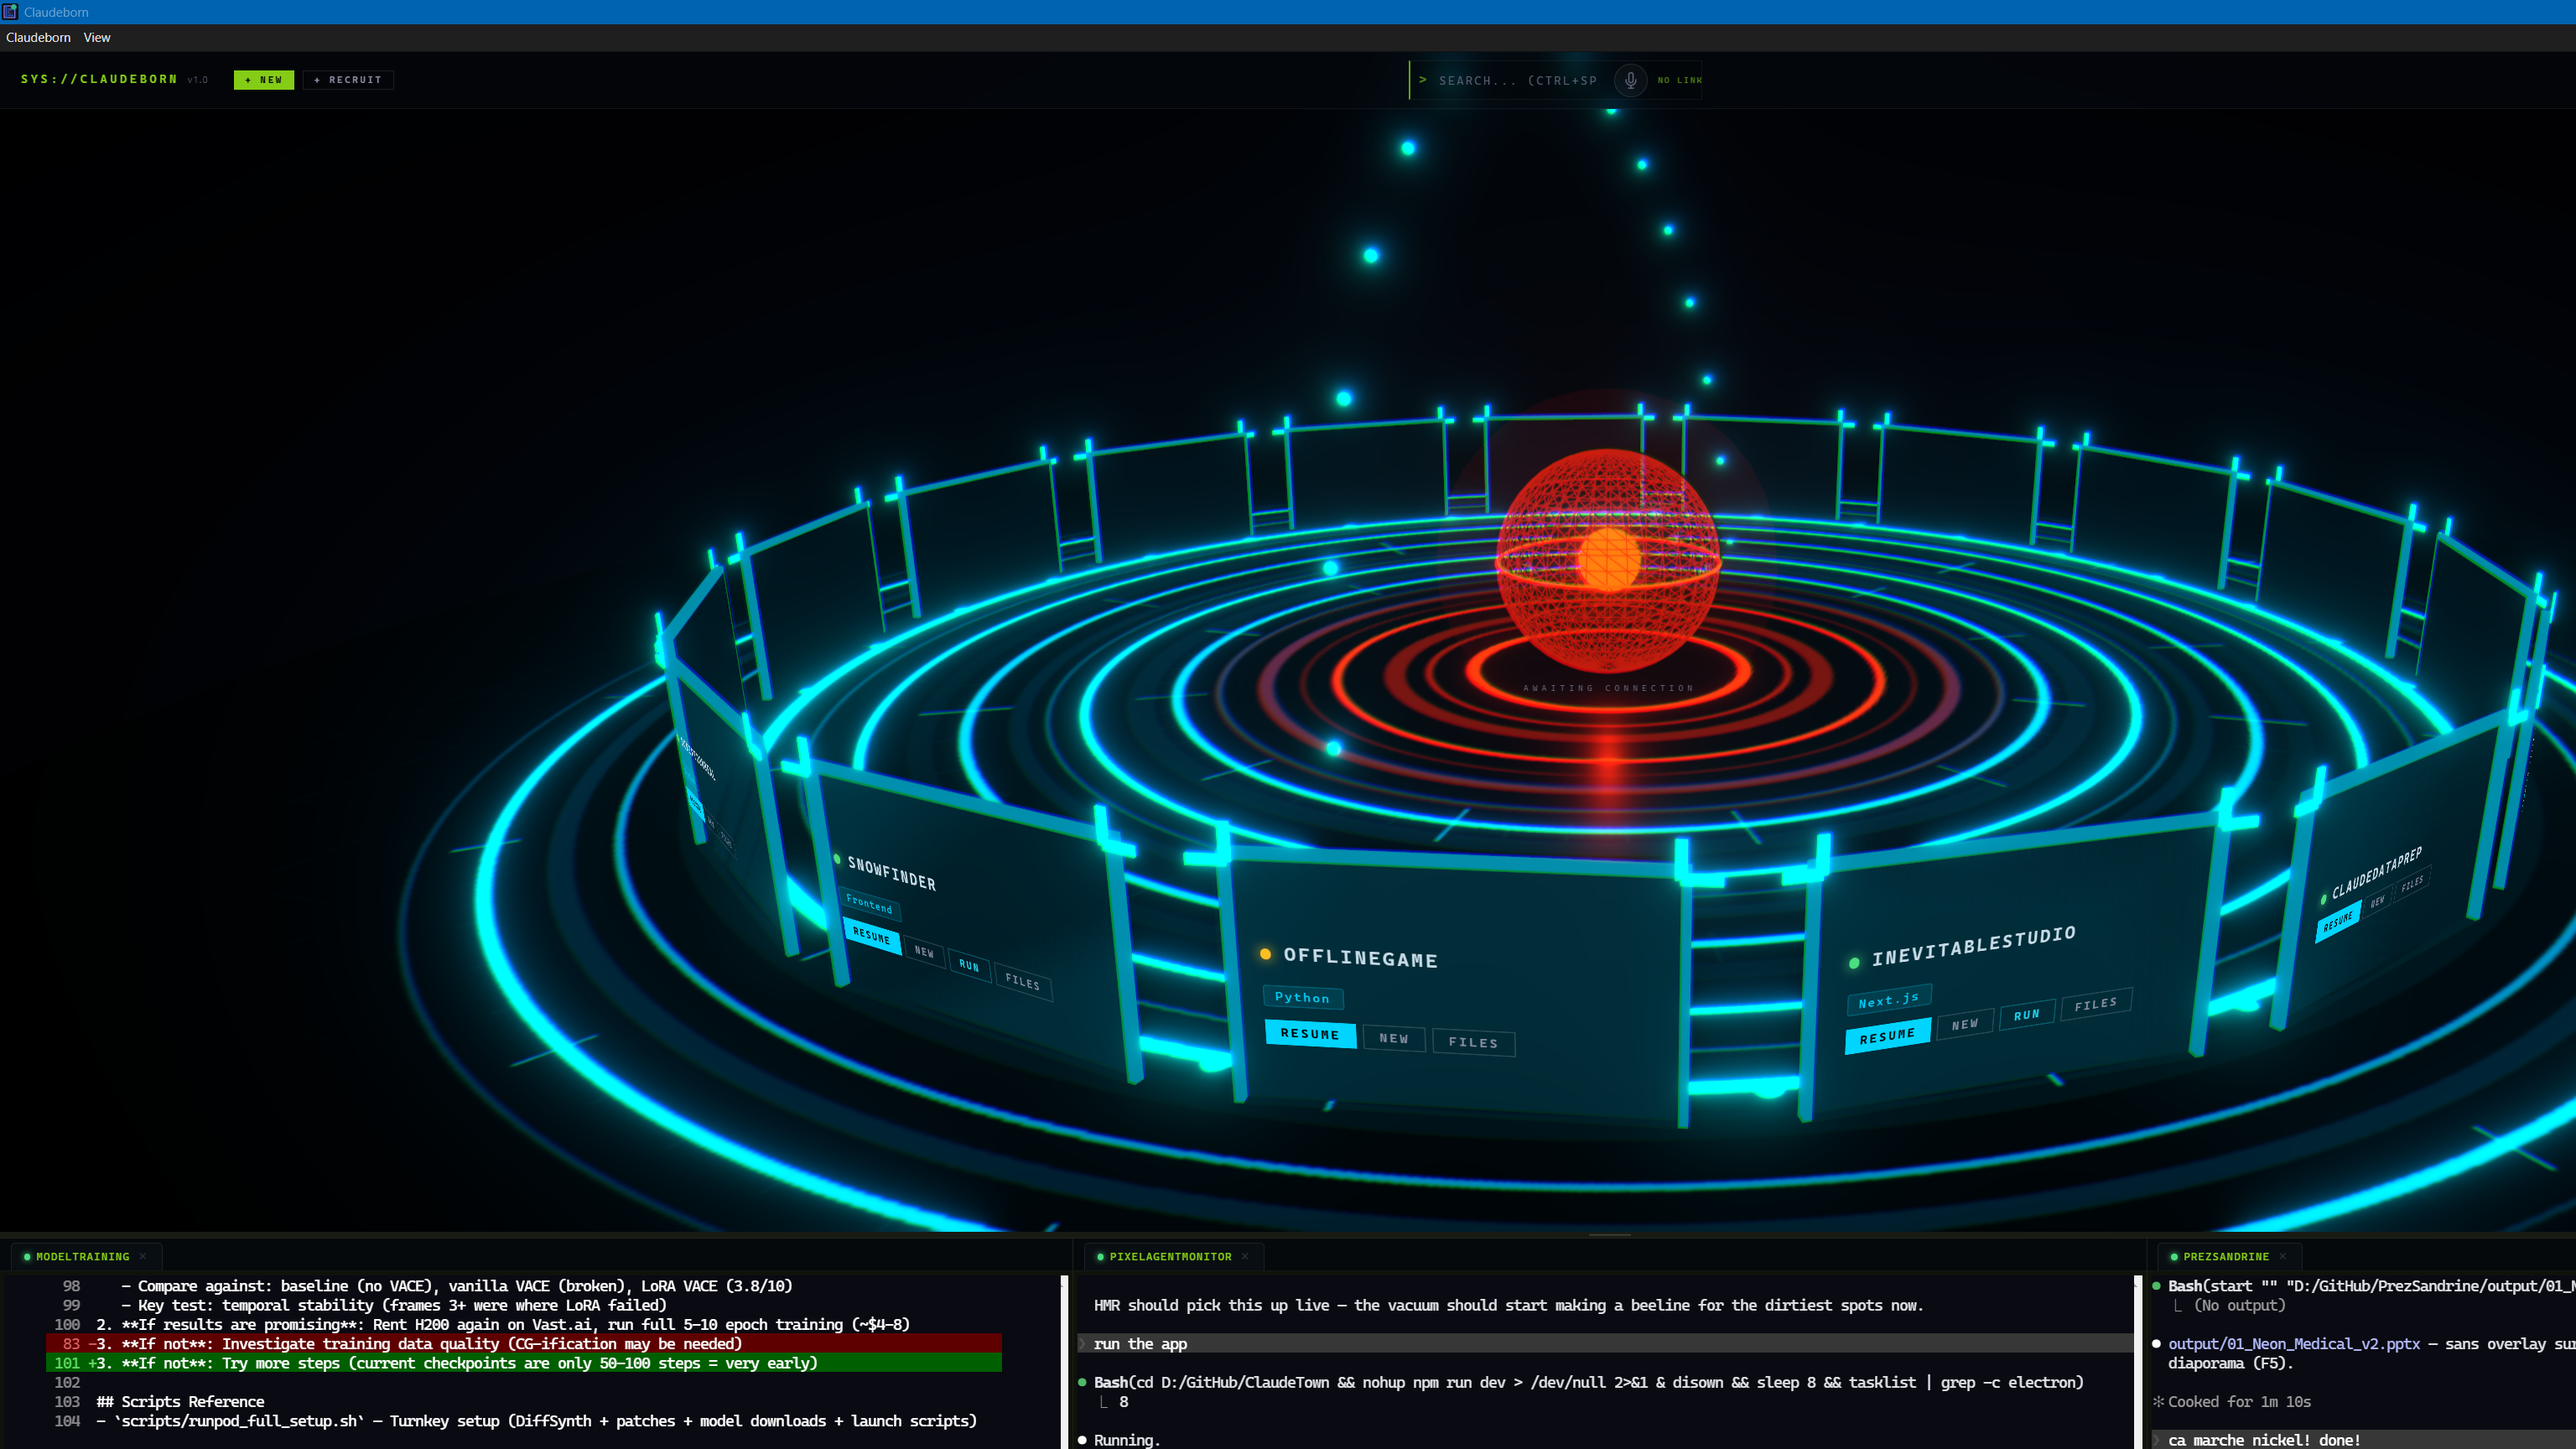
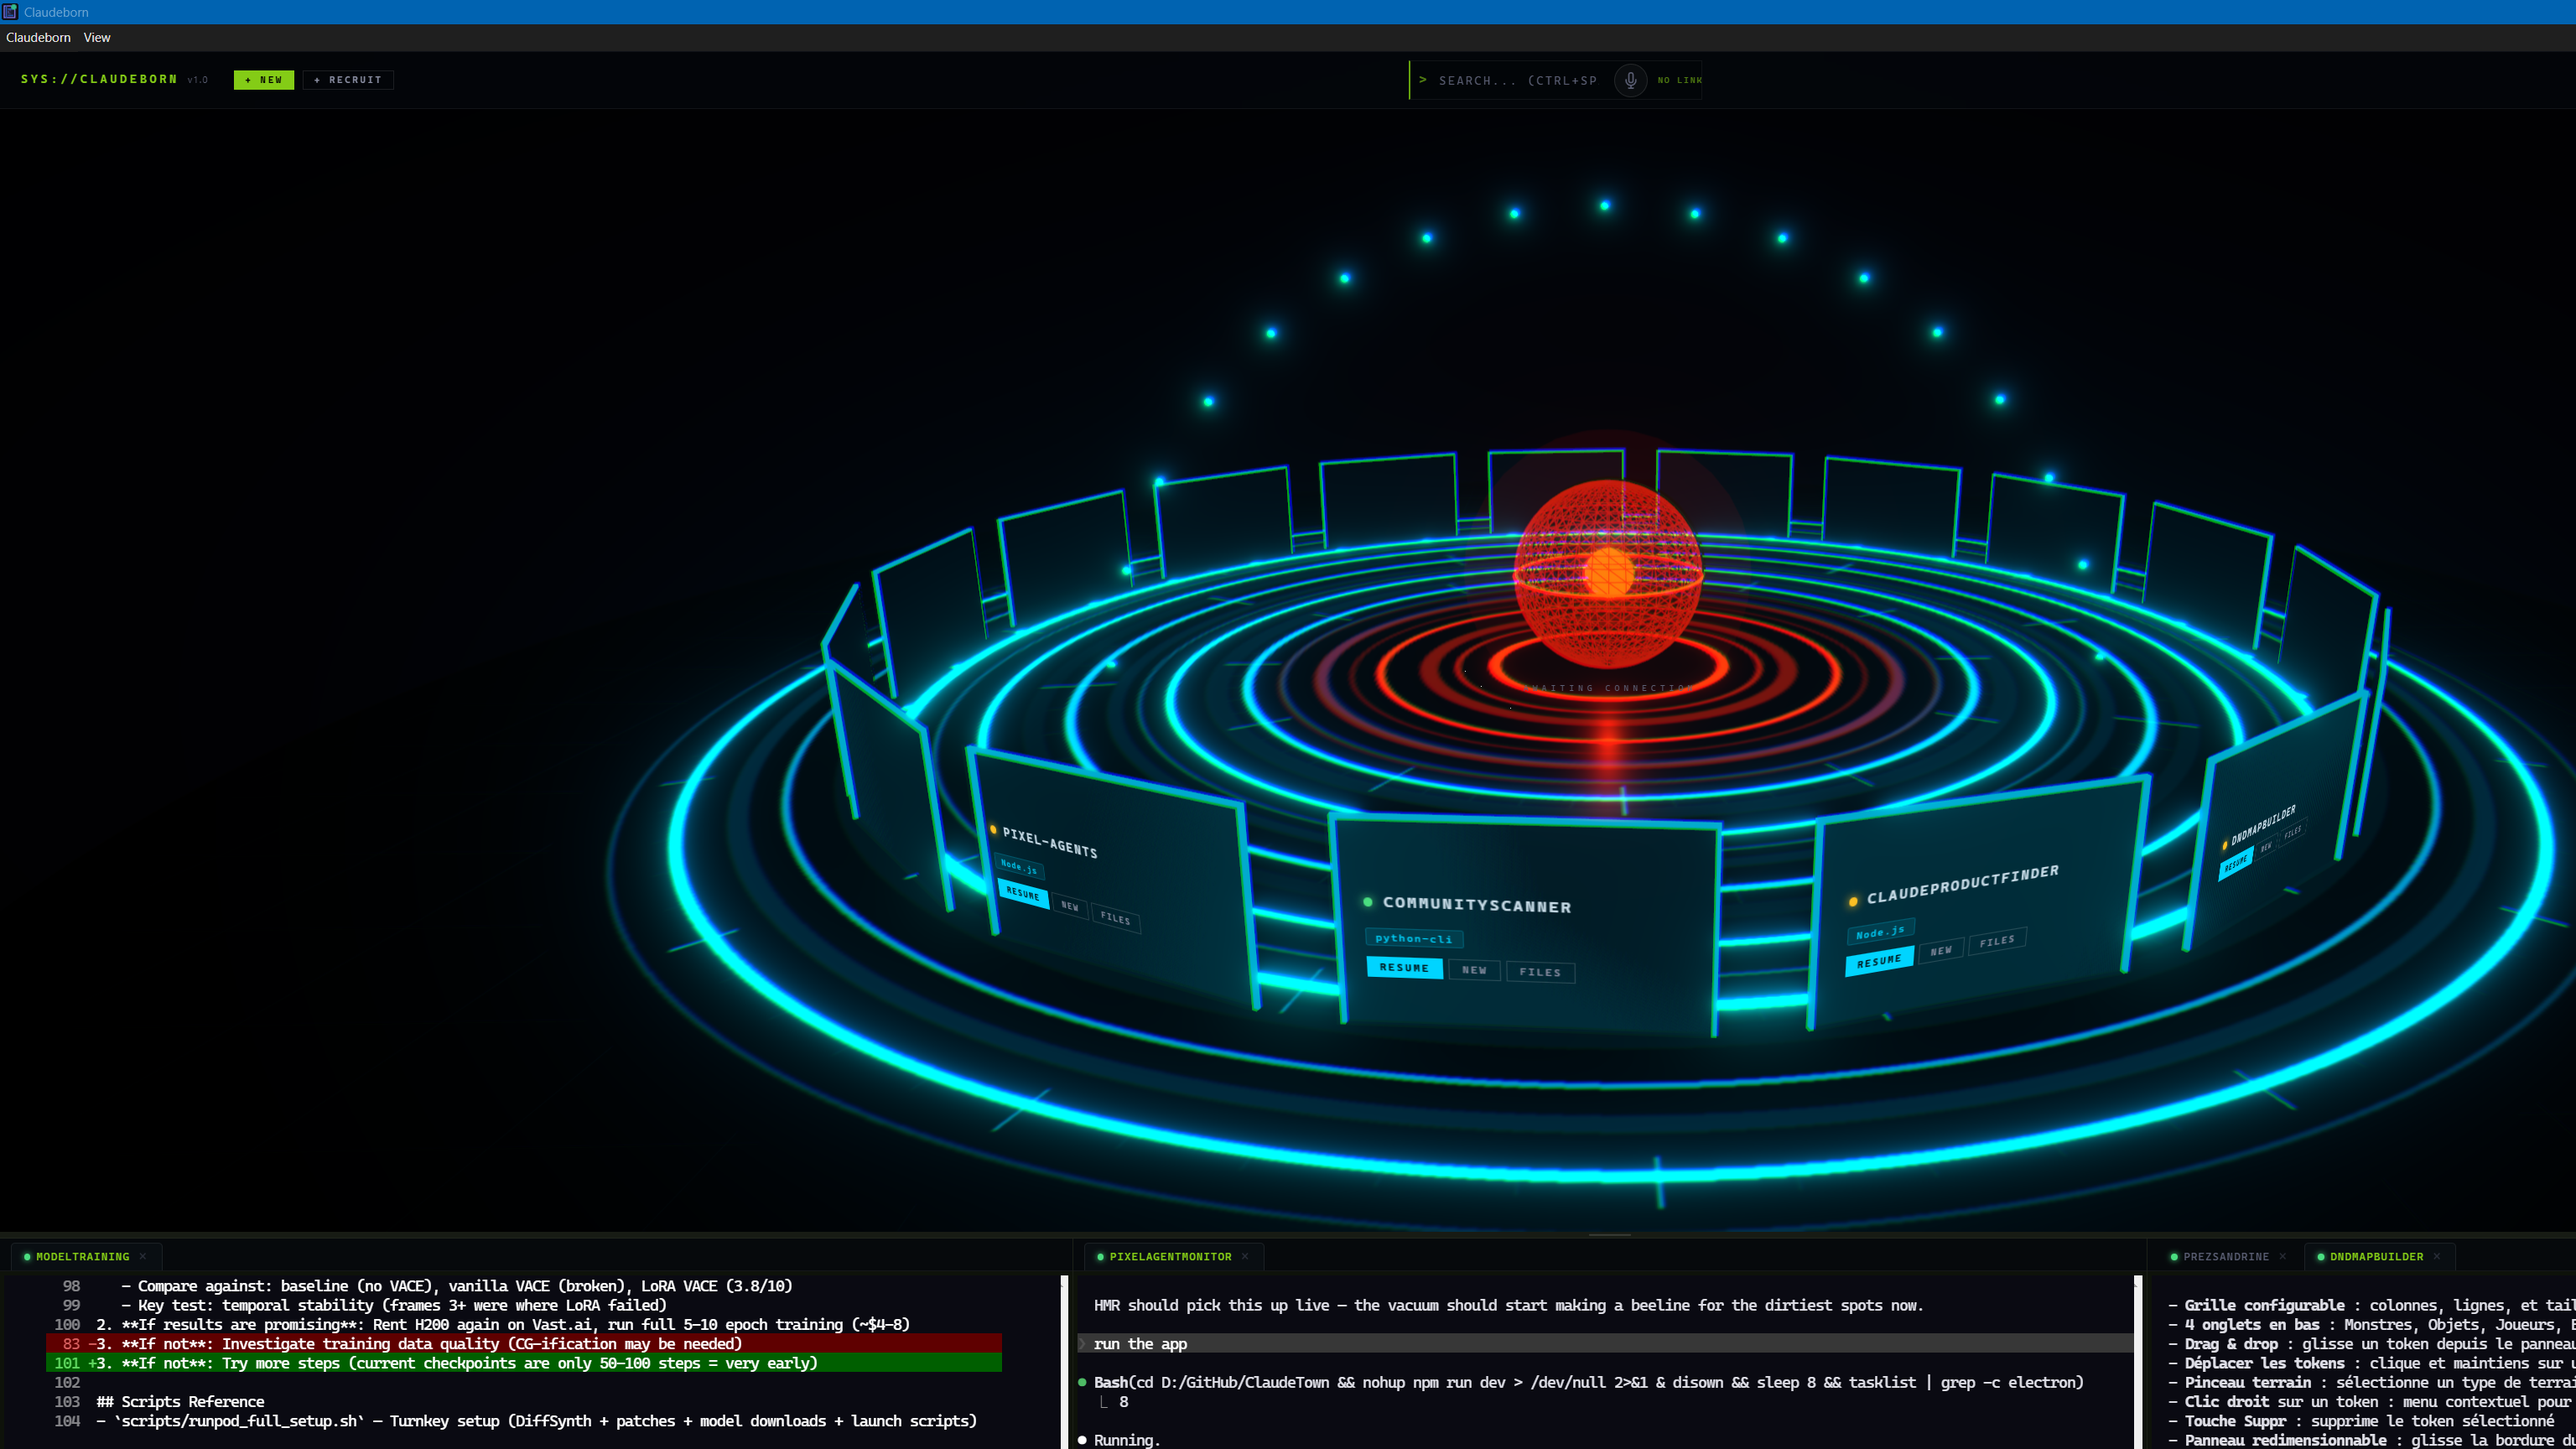
fix: screen flashing — use opacity fade instead of display toggle
- Replaced setFacingCamera state (caused re-renders every frame) with DOM ref
- Html visibility controlled via opacity + CSS transition (0.3s fade)
- No more React re-mounts causing flash
- Increased Html z-offset to 0.06 to prevent z-fighting with screen face
- Removed corner accents and bracket shelves — clean monitor look
- Thinned frame bars (0.04) for sleeker bezel

diff --git a/src/renderer/src/components/three/ScreenPanel.tsx b/src/renderer/src/components/three/ScreenPanel.tsx
@@ -1,4 +1,4 @@
-import { useRef, useState } from 'react'
+import { useRef } from 'react'
 import { useFrame, useThree } from '@react-three/fiber'
 import { Html } from '@react-three/drei'
 import * as THREE from 'three'
@@ -27,37 +27,41 @@ export function ScreenPanel({
   isHovered, onHover, onResume, onNewSession, onFiles, runCmd, onRunApp,
 }: Props) {
   const groupRef = useRef<THREE.Group>(null)
-  const [facingCamera, setFacingCamera] = useState(true)
+  const htmlWrapRef = useRef<HTMLDivElement>(null)
   const { camera } = useThree()
 
   const W = 2.8   // screen width
   const H = 1.8   // screen height
-  const bar = 0.06 // frame bar thickness
-  const depth = FRAME_DEPTH
+  const bar = 0.04 // frame bar thickness — thin like a real monitor bezel
+  const depth = 0.05 // thin like a flat panel
 
   useFrame(() => {
     if (groupRef.current) {
       const s = isHovered ? 1.04 : 1.0
       groupRef.current.scale.lerp(new THREE.Vector3(s, s, s), 0.08)
 
-      // Check if screen faces camera — hide Html if facing away
+      // Check if screen faces camera — fade Html via opacity (no snap, no flash)
       const screenNormal = new THREE.Vector3(0, 0, 1)
       screenNormal.applyQuaternion(groupRef.current.quaternion)
       const toCamera = new THREE.Vector3()
       toCamera.subVectors(camera.position, groupRef.current.position).normalize()
       const dot = screenNormal.dot(toCamera)
-      setFacingCamera(dot > -0.1) // show if roughly facing camera
+      if (htmlWrapRef.current) {
+        const visible = dot > 0
+        htmlWrapRef.current.style.opacity = visible ? '1' : '0'
+        htmlWrapRef.current.style.pointerEvents = visible ? 'auto' : 'none'
+      }
     }
   })
 
   // Shared PBR material for frame
   const frameMat = {
-    color: '#0a1520',
+    color: '#081018',
     emissive: CYAN,
-    emissiveIntensity: isHovered ? 0.8 : 0.4,
+    emissiveIntensity: isHovered ? 1.2 : 0.6,
     metalness: 0.95,
-    roughness: 0.15,
-    toneMapped: false,
+    roughness: 0.1,
+    toneMapped: false as const,
   }
 
   return (
@@ -103,33 +107,6 @@ export function ScreenPanel({
         <meshStandardMaterial {...frameMat} />
       </mesh>
 
-      {/* ── Corner accents — brighter, thicker ── */}
-      {[[-1, -1], [1, -1], [1, 1], [-1, 1]].map(([sx, sy], i) => (
-        <group key={i} position={[sx * (W / 2 - bar), sy * (H / 2 - bar), depth / 2 + 0.005]}>
-          <mesh position={[sx * 0.12, 0, 0]}>
-            <boxGeometry args={[0.25, bar * 1.2, 0.02]} />
-            <meshStandardMaterial emissive={CYAN} emissiveIntensity={1.5} metalness={1} roughness={0} toneMapped={false} color="#001a2e" />
-          </mesh>
-          <mesh position={[0, sy * 0.12, 0]}>
-            <boxGeometry args={[bar * 1.2, 0.25, 0.02]} />
-            <meshStandardMaterial emissive={CYAN} emissiveIntensity={1.5} metalness={1} roughness={0} toneMapped={false} color="#001a2e" />
-          </mesh>
-        </group>
-      ))}
-
-      {/* ── Curved bracket/shelf below screen ── */}
-      <mesh position={[0, -H / 2 - 0.12, 0.02]} rotation={[0.3, 0, 0]}>
-        <boxGeometry args={[W * 0.6, 0.03, 0.15]} />
-        <meshStandardMaterial
-          color="#0a1520"
-          emissive={CYAN}
-          emissiveIntensity={0.3}
-          metalness={0.9}
-          roughness={0.2}
-          toneMapped={false}
-        />
-      </mesh>
-
       {/* ── Subtle edge glow (bloom catcher) ── */}
       <mesh position={[0, 0, depth / 2 + 0.01]}>
         <planeGeometry args={[W + 0.05, H + 0.05]} />
@@ -143,11 +120,11 @@ export function ScreenPanel({
         />
       </mesh>
 
-      {/* ── HTML content — only when facing camera ── */}
-      {facingCamera && <Html
+      {/* ── HTML content — visibility controlled via DOM ref, not React state ── */}
+      <Html
         transform
         distanceFactor={4}
-        position={[0, 0, depth / 2 + 0.03]}
+        position={[0, 0, depth / 2 + 0.06]}
         style={{
           width: '260px',
           padding: '12px 14px',
@@ -158,9 +135,11 @@ export function ScreenPanel({
         onPointerOver={() => onHover(true)}
         onPointerOut={() => onHover(false)}
       >
-        <div style={{
+        <div ref={htmlWrapRef} style={{
           fontFamily: "'Cascadia Code', 'Fira Code', monospace",
           color: '#c8dce8',
+          transition: 'opacity 0.3s ease',
+          willChange: 'opacity',
         }}>
           <div style={{ display: 'flex', alignItems: 'center', gap: '8px', marginBottom: '6px' }}>
             <span style={{
@@ -194,7 +173,7 @@ export function ScreenPanel({
             <button onClick={onFiles} style={btnGhost}>FILES</button>
           </div>
         </div>
-      </Html>}
+      </Html>
     </group>
   )
 }
